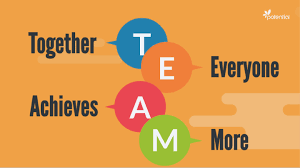
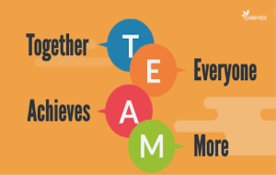
resize pics and retouch carousel

diff --git a/styles/boxes.css b/styles/boxes.css
@@ -22,21 +22,19 @@
   font-size: 115%;
   text-align: center;
   background-color: rgb(211, 211, 211);
+
 }
 
 .info {
   margin-top: 15%;
   font-size: 200%;
 }
+
 .pic1 {
     margin-top: 3%;
-  width: 100%;
-  height: 68%;
 }
 .pic2 {
     margin-top: 3%;
-  width: 100%;
-  height: 68%;
 }
 .pic3 {
   margin-left: 1%;
